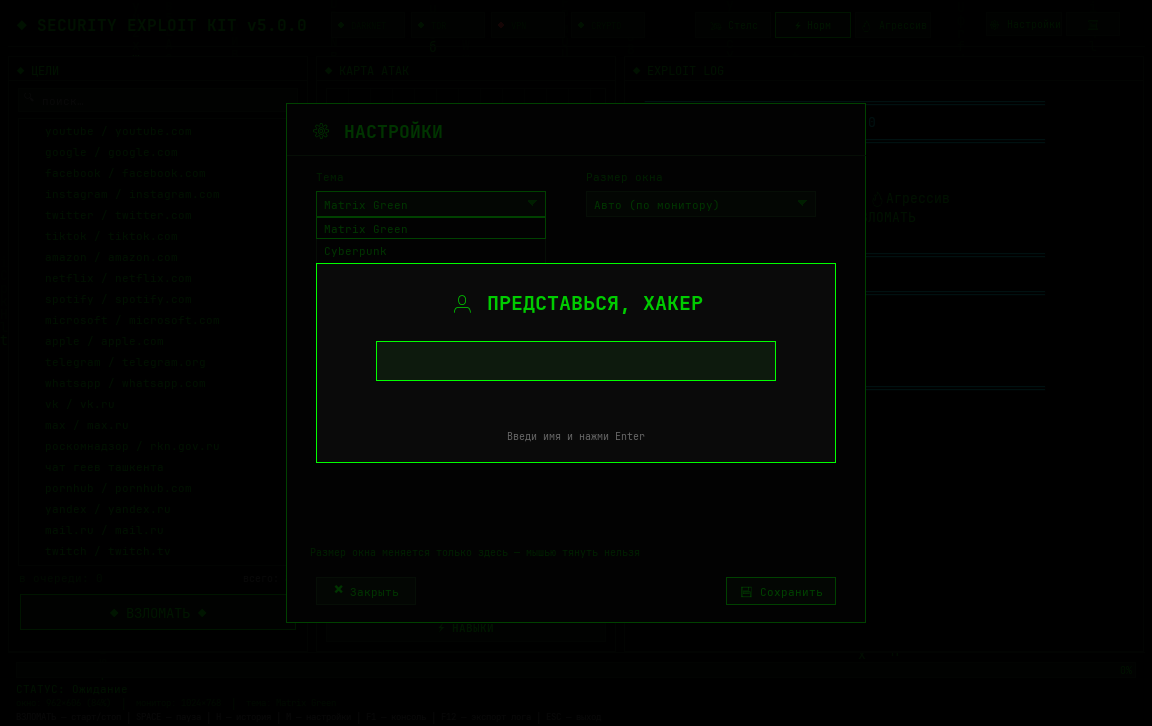
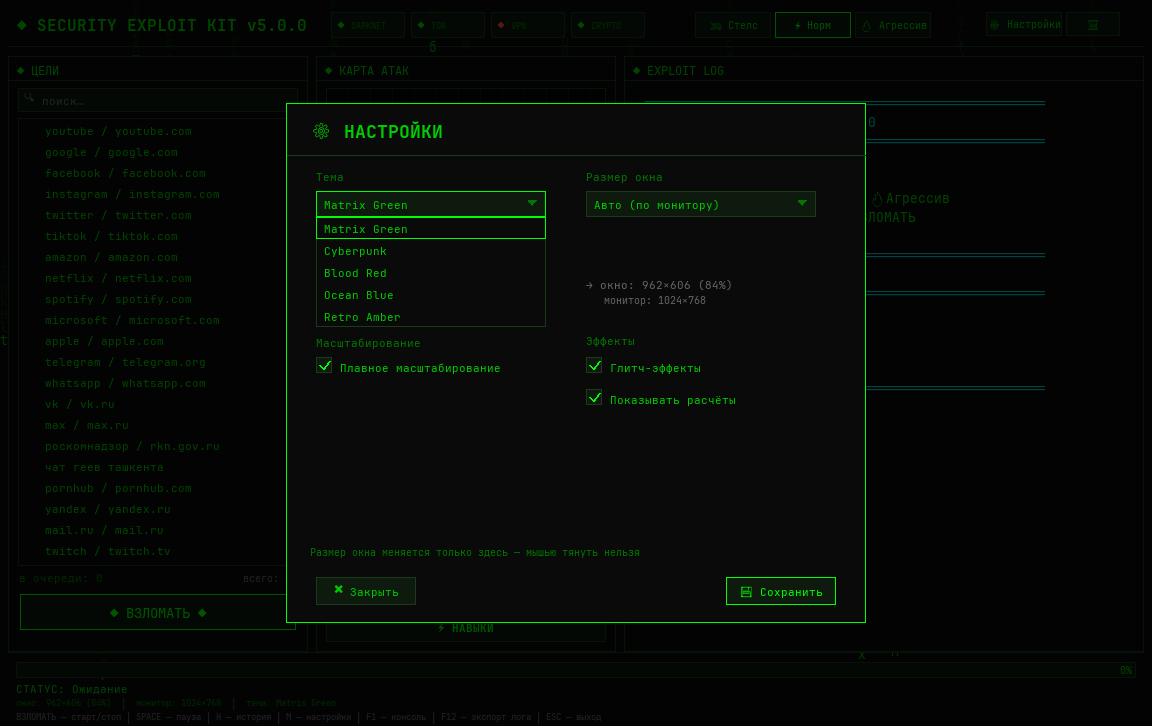
Плавное масштабирование интерфейса: чёткая картинка и переключатель в настройках
После укрупнения интерфейса (логический холст 1152×726) кадр растягивался
на окно обычным smoothscale и мылился — выглядело как низкое качество.

Теперь масштабирование — суперсемплинг: кадр дублируется на промежуточный
холст 2.5×, а затем мягко сводится к размеру окна. Пиксели остаются
чёткими, края — гладкими, без «мыла» и ступенек.

* настройка «Плавное масштабирование» в меню (по умолчанию включено,
  применяется сразу, сохраняется в ~/.hacker_settings.json);
* выключенный режим — быстрый nearest-neighbour (для слабых машин
  и любителей стопроцентной пиксельности);
* при масштабе 1:1 копирование без ресемплинга, как раньше;
* тесты: дефолт, сохранение, живое переключение, оба режима
  растеризации (113 проходят);
* превью настроек перегенерированы.

diff --git a/gamedev/screen.py b/gamedev/screen.py
@@ -4,6 +4,17 @@
 мониторе не влезал. Теперь всё рисуется в виртуальную поверхность
 LOGICAL_W × LOGICAL_H, а на экран уже масштабируется целиком под размер
 окна — вёрстка не ломается ни на 800×600, ни на 4K.
+
+Масштабирование бывает двух видов (переключатель «Плавное
+масштабирование» в настройках, по умолчанию включено):
+
+* плавное (smooth=True) — суперсемплинг: кадр сначала дублируется на
+  промежуточный холст SUPERSAMPLE×, а затем мягко сводится к размеру
+  окна. Пиксели интерфейса остаются чёткими, а края не ползут
+  ступеньками — выглядит как качественное масштабирование, а не
+  растянутая картинка;
+* быстрое (smooth=False) — ближайший сосед: максимальная скорость и
+  абсолютно «пиксельный» вид, но со ступенчатыми краями.
 """
 
 from __future__ import annotations
@@ -16,13 +27,17 @@ from . import config
 class Screen:
     """Логическая поверхность + масштабирование в окно."""
 
-    def __init__(self, window: pygame.Surface, logical_size=None):
+    SUPERSAMPLE = 2.5       # множитель промежуточного холста (суперсемплинг)
+
+    def __init__(self, window: pygame.Surface, logical_size=None,
+                 smooth: bool = True):
         self.window = window
-        self._scaled: pygame.Surface | None = None
         self.logical_w = logical_size[0] if logical_size else config.LOGICAL_W
         self.logical_h = logical_size[1] if logical_size else config.LOGICAL_H
         self.surface = pygame.Surface((self.logical_w, self.logical_h)).convert()
-        self._smooth = True
+        self.smooth = smooth
+        self._scaled: pygame.Surface | None = None   # кадр под размер окна
+        self._super: pygame.Surface | None = None    # промежуточный холст
 
     # ── масштаб ──────────────────────────────────────────────────────
     @property
@@ -41,11 +56,10 @@ class Screen:
 
     # ── отрисовка ────────────────────────────────────────────────────
     def blit_to_window(self):
-        """Растягивает логическую поверхность на окно.
+        """Масштабирует логическую поверхность на окно.
 
-        smoothscale дорогой, поэтому результат кэшируется: при неизменном
-        размере окна поверхность переиспользуется. При масштабе 1:1
-        копируем напрямую, без ресемплинга.
+        Рабочие поверхности кэшируются по размеру окна. При масштабе
+        1:1 копируем напрямую, без ресемплинга.
         """
         size = self.window.get_size()
         if size == (self.logical_w, self.logical_h):
@@ -53,5 +67,13 @@ class Screen:
             return
         if self._scaled is None or self._scaled.get_size() != size:
             self._scaled = pygame.Surface(size).convert()
-        pygame.transform.smoothscale(self.surface, size, self._scaled)
+        if self.smooth:
+            mid = (round(self.logical_w * self.SUPERSAMPLE),
+                   round(self.logical_h * self.SUPERSAMPLE))
+            if self._super is None or self._super.get_size() != mid:
+                self._super = pygame.Surface(mid).convert()
+            pygame.transform.scale(self.surface, mid, self._super)
+            pygame.transform.smoothscale(self._super, size, self._scaled)
+        else:
+            pygame.transform.scale(self.surface, size, self._scaled)
         self.window.blit(self._scaled, (0, 0))

diff --git a/tests/test_gamedev.py b/tests/test_gamedev.py
@@ -92,13 +92,15 @@ def test_normalize_mode():
 def test_settings_roundtrip(tmp_path=None):
     d = Path(tempfile.mkdtemp())
     path = d / 's.json'
-    s = Settings(theme='ocean', minigame_chance=55, window_scale='0.75', attack_mode='stealth')
+    s = Settings(theme='ocean', minigame_chance=55, window_scale='0.75',
+                 attack_mode='stealth', smooth_scaling=False)
     assert s.save(path)
     loaded = Settings.load(path)
     assert loaded.theme == 'ocean'
     assert loaded.minigame_chance == 55
     assert loaded.window_scale == '0.75'
     assert loaded.attack_mode == 'stealth'
+    assert loaded.smooth_scaling is False
 
 
 def test_settings_survive_garbage():
@@ -137,6 +139,14 @@ def test_settings_compatible_with_legacy_keys():
     assert s.glitch_enabled is False
     assert s.attack_mode == 'aggressive'
     assert s.window_scale == 'auto'      # новое поле — дефолт
+    assert s.smooth_scaling is True      # плавное масштабирование — по умолчанию вкл
+
+
+def test_smooth_scaling_on_by_default():
+    s = Settings()
+    assert s.smooth_scaling is True, 'плавное масштабирование должно быть включено'
+    s = Settings(smooth_scaling=False).normalized()
+    assert s.smooth_scaling is False
 
 
 # ─────────────────── окно: только из настроек ───────────────────
@@ -174,7 +184,7 @@ def test_app_boots_and_renders():
     # меню открывается и рисуется
     app.open_menu()
     app.draw()
-    assert len(app.menu_widgets) == 5
+    assert len(app.menu_widgets) == 6
     pygame.quit()
 
 
@@ -203,6 +213,58 @@ def test_size_change_applies_new_window():
     new = app.window.get_size()
     assert new != old
     assert new[0] <= app.monitor[0] and new[1] <= app.monitor[1]
+    pygame.quit()
+
+
+# ─────────────────── плавное масштабирование ───────────────────
+def test_screen_smooth_scaling_modes():
+    """Плавное даёт сглаженные края, быстрое — только чистые пиксели."""
+    import pygame
+    from gamedev.screen import Screen
+
+    pygame.display.init()
+    win = pygame.display.set_mode((4, 4))
+
+    # шахматка 2×2 → окно 4×4
+    def checker():
+        scr = Screen(win, logical_size=(2, 2))
+        scr.surface.fill((0, 0, 0))
+        scr.surface.fill((255, 255, 255), pygame.Rect(0, 0, 1, 1))
+        scr.surface.fill((255, 255, 255), pygame.Rect(1, 1, 1, 1))
+        return scr
+
+    white, black = (255, 255, 255), (0, 0, 0)
+
+    fast = checker()
+    fast.smooth = False
+    fast.blit_to_window()
+    colors = {tuple(win.get_at((x, y)))[:3]
+              for x in range(4) for y in range(4)}
+    assert colors <= {white, black}, f'быстрый режим размыл пиксели: {colors}'
+
+    smooth = checker()
+    smooth.smooth = True
+    smooth.blit_to_window()
+    colors = {tuple(win.get_at((x, y)))[:3]
+              for x in range(4) for y in range(4)}
+    assert any(c not in (white, black) for c in colors), \
+        f'плавный режим не сгладил края: {colors}'
+    pygame.quit()
+
+
+def test_smooth_toggle_applies_live():
+    import pygame
+    from gamedev.app import App
+
+    app = App()
+    assert app.screen.smooth is True
+    app._on_smooth_change(False)
+    assert app.settings.smooth_scaling is False
+    assert app.screen.smooth is False, 'переключатель должен действовать сразу'
+    app.open_menu()
+    assert app.smooth_cb.checked is False
+    app._on_smooth_change(True)
+    assert app.screen.smooth is True
     pygame.quit()
 
 

diff --git a/gamedev/app.py b/gamedev/app.py
@@ -68,7 +68,7 @@ class App:
         from assets.fonts.fontloader import FontBook
         self.book = FontBook(pygame)
 
-        self.screen = Screen(self.window)
+        self.screen = Screen(self.window, smooth=self.settings.smooth_scaling)
         self.clock = pygame.time.Clock()
         self.running = True
         self.time = 0.0
@@ -190,9 +190,14 @@ class App:
             checked=self.settings.show_calculations,
             on_change=self._on_calc_change)
 
+        self.smooth_cb = Checkbox(
+            rect=pygame.Rect(x0, row3, 230, 20), text='Плавное масштабирование',
+            checked=self.settings.smooth_scaling,
+            on_change=self._on_smooth_change)
+
         y = py + panel_h - 46
         self.menu_widgets = [self.theme_dd, self.size_dd, self.chance_slider,
-                             self.glitches_cb, self.calc_cb]
+                             self.glitches_cb, self.calc_cb, self.smooth_cb]
         self.menu_buttons = [
             Button(rect=pygame.Rect(px + panel_w - 140, y, 110, 28),
                    text='💾 Сохранить', size=11, accent=True,
@@ -379,6 +384,10 @@ class App:
         if self.attack:
             self.attack.show_calculations = value
 
+    def _on_smooth_change(self, value: bool) -> None:
+        self.settings.smooth_scaling = value
+        self.screen.smooth = value      # применяется сразу, без рестарта
+
     def apply_window_size(self) -> None:
         """Пересчитывает и применяет размер окна (только через настройки)."""
         info = pygame.display.Info()
@@ -386,7 +395,7 @@ class App:
         self.size_info = compute_size(*self.monitor, mode=self.settings.window_scale)
         self.window = pygame.display.set_mode(
             (self.size_info.width, self.size_info.height))
-        self.screen = Screen(self.window)
+        self.screen = Screen(self.window, smooth=self.settings.smooth_scaling)
 
     def open_menu(self) -> None:
         self.menu_open = True
@@ -395,6 +404,7 @@ class App:
         self.chance_slider.value = self.settings.minigame_chance
         self.glitches_cb.checked = self.settings.glitch_enabled
         self.calc_cb.checked = self.settings.show_calculations
+        self.smooth_cb.checked = self.settings.smooth_scaling
 
     def save_and_close(self) -> None:
         self.settings.save()
@@ -932,6 +942,7 @@ class App:
 
         self._menu_caption(surf, 'Эффекты', self.glitches_cb.rect.x,
                            y=self.glitches_cb.rect.y - 24)
+        self._menu_caption(surf, 'Масштабирование', self.smooth_cb.rect)
 
         dropdowns = [self.theme_dd, self.size_dd]
         for w in self.menu_widgets:

diff --git a/gamedev/settings.py b/gamedev/settings.py
@@ -27,6 +27,7 @@ class Settings:
     show_calculations: bool = True
     attack_mode: str = 'normal'
     window_scale: str = config.WINDOW_SCALE_DEFAULT
+    smooth_scaling: bool = True   # плавное масштабирование интерфейса
     vsync: bool = True
     sound: bool = True
 
@@ -40,6 +41,7 @@ class Settings:
             show_calculations=bool(self.show_calculations),
             attack_mode=self.attack_mode if self.attack_mode in VALID_MODES else 'normal',
             window_scale=normalize_mode(self.window_scale),
+            smooth_scaling=bool(self.smooth_scaling),
             vsync=bool(self.vsync),
             sound=bool(self.sound),
         )
@@ -64,6 +66,7 @@ class Settings:
             show_calculations=data.get('show_calculations', defaults.show_calculations),
             attack_mode=data.get('attack_mode', defaults.attack_mode),
             window_scale=data.get('window_scale', defaults.window_scale),
+            smooth_scaling=data.get('smooth_scaling', defaults.smooth_scaling),
             vsync=data.get('vsync', defaults.vsync),
             sound=data.get('sound', defaults.sound),
         )

diff --git a/README.ru.md b/README.ru.md
@@ -49,6 +49,7 @@ python3 -m venv .venv
 |---|---|---|
 | 🖥 | **Окно под монитор** | 94% ширины и 89% высоты экрана, пропорции 1152×726, не больше 175% |
 | 🔒 | **Без растягивания мышью** | окно не тянется за угол — размер живёт только в настройках |
+| ✨ | **Плавное масштабирование** | интерфейс увеличивается на окно чётко и без «мыла»; по умолчанию включено, выключается в настройках |
 | 🎨 | **5 тем** | Matrix Green, Cyberpunk, Blood Red, Ocean Blue, Retro Amber — без перезапуска |
 | 📜 | **Живой лог** | цветные строки, перенос по словам, прокрутка, лимит 4000 строк |
 | 🎯 | **Цели** | очередь по порядку кликов, поиск, свои цели |

diff --git a/README.md b/README.md
@@ -49,6 +49,7 @@ python3 -m venv .venv
 |---|---|---|
 | 🖥 | **Autofit window** | picks 94% of screen width / 89% of height, keeps 1152×726 proportions, never more than 175% |
 | 🔒 | **No drag-resize** | the window can't be pulled by mouse — the size lives in settings only |
+| ✨ | **Smooth scaling** | the UI scales up to the window crisp and blur-free; on by default, toggle in settings |
 | 🎨 | **5 themes** | Matrix Green, Cyberpunk, Blood Red, Ocean Blue, Retro Amber — switch without restart |
 | 📜 | **Live log** | coloured lines, word wrap, scrollback, 4000-line cap |
 | 🎯 | **Targets** | queue by click order, search, add your own |
